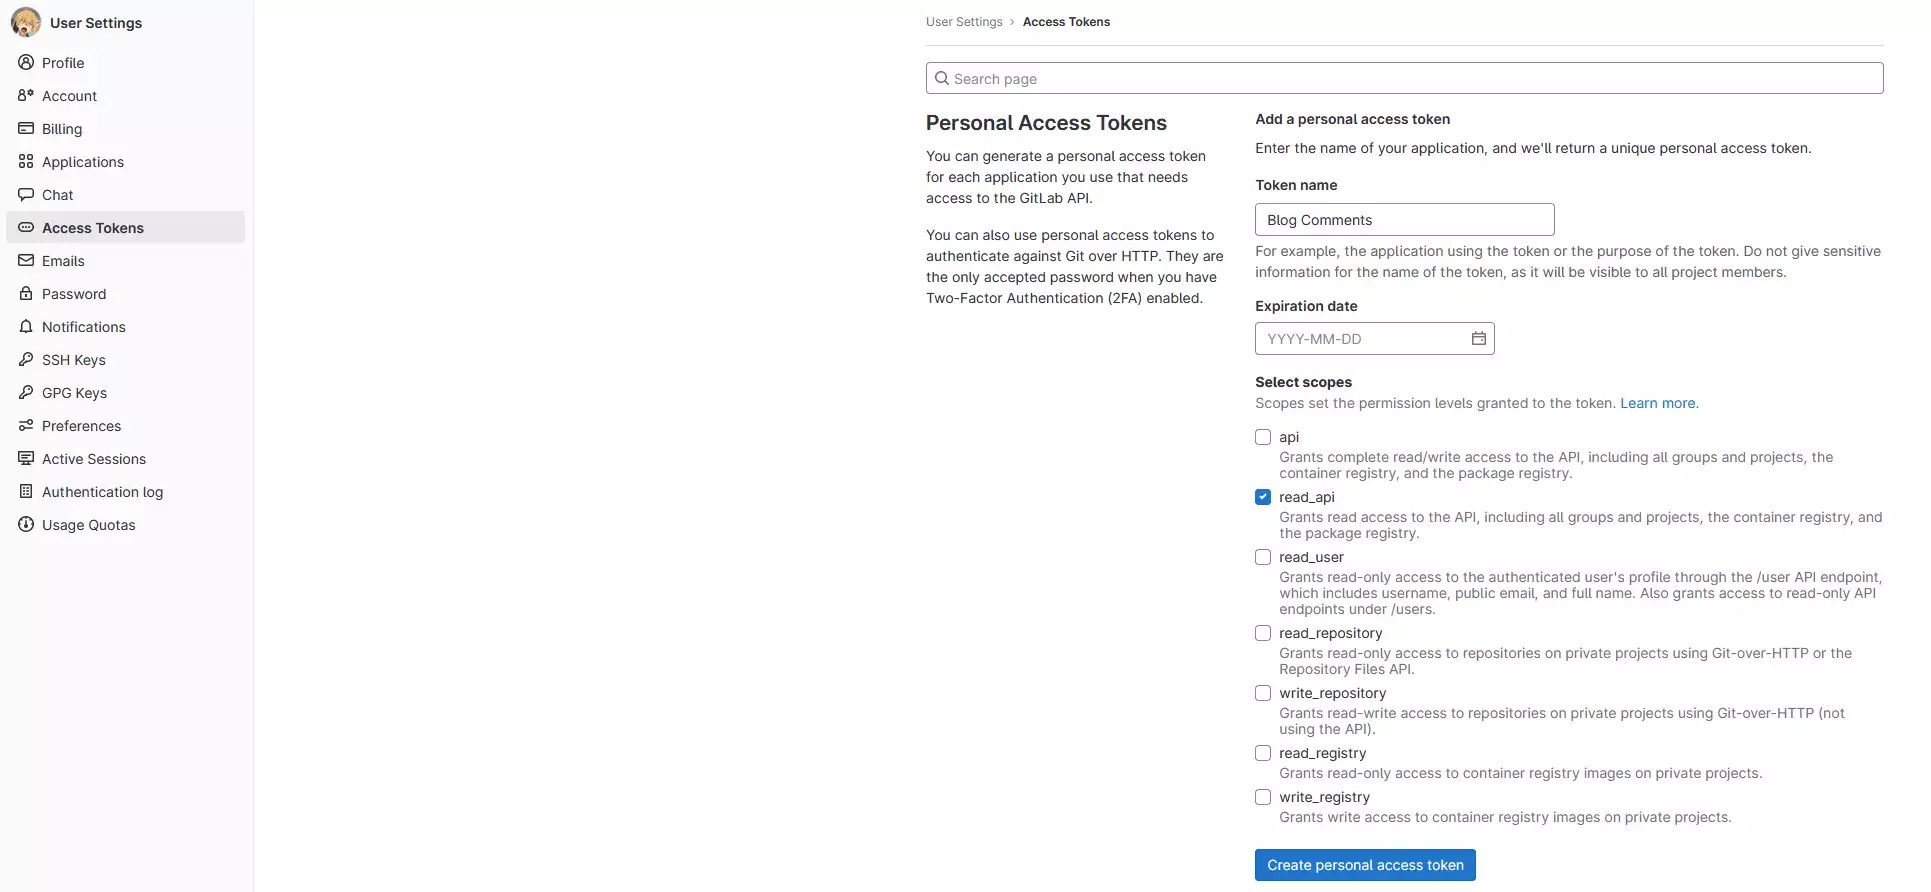
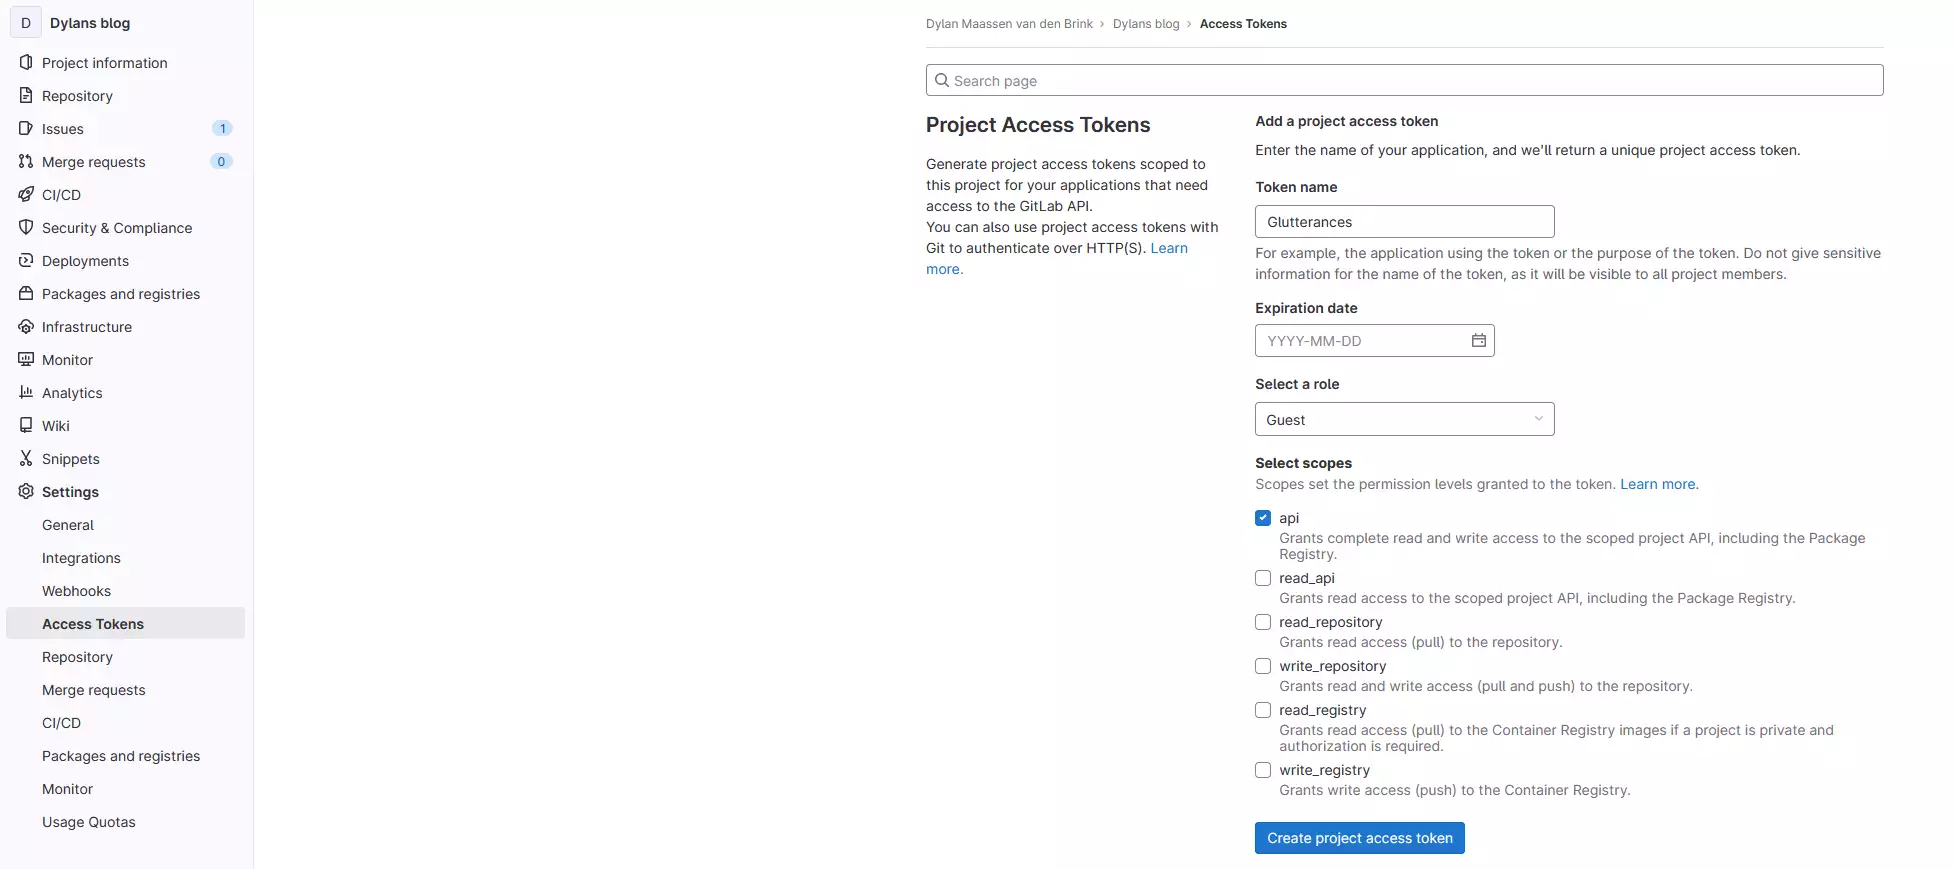
swapped image, added to new article

diff --git a/content/posts/gitlab_for_comments/index.md b/content/posts/gitlab_for_comments/index.md
@@ -25,7 +25,7 @@ First, let me note that projects/:id/issues/:iid works fine without providing an
 Do mind that :iid is not a typo, it is GitLab's way of differentiating global IDs (:id) and context specific ID's (:iid). This is the reason that the first issue on your project can have ID 1 and so on.
 {{< /callout >}}
 
-So for this plan to work we'll need an API key. Take a look at the following image to see where you can add one. GitLab calls them Access Tokens.
+So for this plan to work we'll need an API key. In this case I decided to use a Project Access Token, this does restrict an instance of our code to only server 1 site, which is good enough for now. The reason for a Project Access Token is that we need the full API scope so we can potentially implement automatically adding a new issue. Using a Personal Access Token would increase risk of abusing the key significantly. Guests can manage project issues so that role should be sufficient.
 
 {{< lightbox img="img/gitlab-pat.webp" group="GitLab" center="yes" caption="Adding a new access token for GitLab is pretty easy" >}}
 
